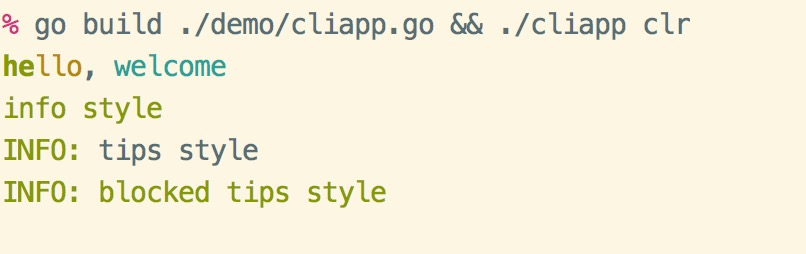
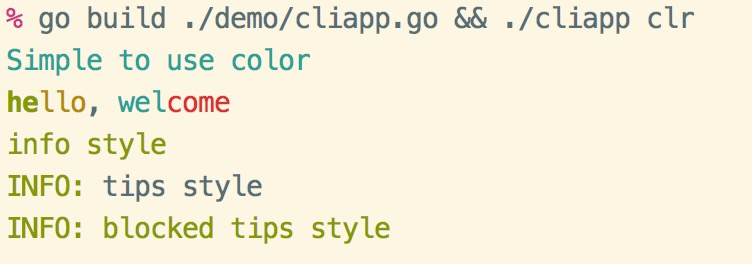
some update for color

Changed region(s): [[0.0, 0.3307, 0.5199, 0.937], [0.0, 0.0276, 0.9176, 0.1654], [0.0, 0.1654, 0.4282, 0.3307]]

diff --git a/color/tag.go b/color/tag.go
@@ -20,86 +20,6 @@ const (
 	StripExpr = `<[\/]?[a-zA-Z=;]*>`
 )
 
-// UseTagColor
-func UseTagColor(name string, str string) string {
-	return buildColoredText(GetStyleCode(name), str)
-}
-
-// Render return rendered string
-func Render(str string) string {
-	return ReplaceTag(str)
-}
-
-// ReplaceTag return rendered string
-func ReplaceTag(str string) string {
-	if !strings.Contains(str, "<") {
-		return str
-	}
-
-	//reg := regexp.MustCompile(TagExpr)
-	reg, err := regexp.Compile(TagExpr)
-
-	if err != nil {
-		return str
-	}
-
-	matches := reg.FindAllStringSubmatch(str, -1)
-	// fmt.Printf("matches %v\n", matches)
-
-	for _, item := range matches {
-		// e.g "<tag>content</>"
-		_, tag, content := item[0], item[1], item[2]
-		code := GetStyleCode(tag)
-
-		if len(code) > 0 {
-			now := buildColoredText(code, content)
-			old := WrapTag(content, tag)
-			str = strings.Replace(str, old, now, 1)
-		}
-		// fmt.Printf("tag: %s, tag content:%s\n", tag, content)
-	}
-
-	return str
-}
-
-// IsDefinedTag is defined tag name
-func IsDefinedTag(name string) bool {
-	if _, ok := TagColors[name]; ok {
-		return true
-	}
-
-	return false
-}
-
-// GetStyleCode get color code by tag name
-func GetStyleCode(name string) string {
-	if code, ok := TagColors[name]; ok {
-		return code
-	}
-
-	return ""
-}
-
-// WrapTag wrap a tag for a string "<tag>content</>"
-func WrapTag(str string, tag string) string {
-	// return fmt.Sprintf("<%s>%s</%s>", tag, str, tag)
-	return fmt.Sprintf("<%s>%s</>", tag, str)
-}
-
-// ClearTag clear all tag for a string
-func ClearTag(str string) string {
-	if !strings.Contains(str, "<") {
-		return str
-	}
-
-	rgp, err := regexp.Compile(StripExpr)
-	if err != nil {
-		return str
-	}
-
-	return rgp.ReplaceAllString(str, "")
-}
-
 // Some defined style tags, in the TagColors.
 const (
 	// basic
@@ -114,7 +34,7 @@ const (
 	TagYellow  = "yellow"
 	TagMagenta = "magenta"
 
-	// alert
+	// alert tag, like bootstrap's alert
 	Suc     = "suc" // same "green" and "bold"
 	Success = "success"
 	Info    = "info"    // same "green"
@@ -123,6 +43,7 @@ const (
 	Notice  = "notice"
 	Warn    = "warn"
 	Warning = "warning"
+	Primary = "primary"
 	Danger  = "danger" // same "red"
 	Err     = "err"
 	Error   = "error"
@@ -137,7 +58,7 @@ const (
 // format is: "fg;bg;opt"
 // usage: <tag>content text</>
 var TagColors = map[string]string{
-	// basic
+	// basic tags
 	"red":     "0;31",
 	"blue":    "0;34",
 	"cyan":    "0;36",
@@ -150,7 +71,7 @@ var TagColors = map[string]string{
 	"yellow":  "1;33",
 	"magenta": "1;35",
 
-	// alert
+	// alert tags, like bootstrap's alert
 	"suc":     "1;32", // same "green" and "bold"
 	"success": "1;32",
 	"info":    "0;32", // same "green",
@@ -159,11 +80,12 @@ var TagColors = map[string]string{
 	"notice":  "36;4",
 	"warn":    "0;30;43",
 	"warning": "0;30;43",
+	"primary": "0;34",
 	"danger":  "0;31", // same "red"
 	"err":     "30;41",
 	"error":   "30;41",
 
-	// more
+	// more tags
 	"lightRed":      "1;31",
 	"light_red":     "1;31",
 	"lightGreen":    "1;32",
@@ -197,4 +119,84 @@ var TagColors = map[string]string{
 	"bold":       "1",
 	"underscore": "4",
 	"reverse":    "7",
+}
+
+// ApplyTag
+func ApplyTag(tag string, str string) string {
+	return buildColoredText(GetStyleCode(tag), str)
+}
+
+// Render return rendered string
+func Render(args ...interface{}) string {
+	return ReplaceTag(fmt.Sprint(args...))
+}
+
+// ReplaceTag replace tag and return rendered string
+func ReplaceTag(str string) string {
+	if !strings.Contains(str, "<") {
+		return str
+	}
+
+	//reg := regexp.MustCompile(TagExpr)
+	reg, err := regexp.Compile(TagExpr)
+
+	if err != nil {
+		return str
+	}
+
+	matches := reg.FindAllStringSubmatch(str, -1)
+	// fmt.Printf("matches %v\n", matches)
+
+	for _, item := range matches {
+		// e.g "<tag>content</>"
+		_, tag, content := item[0], item[1], item[2]
+		code := GetStyleCode(tag)
+
+		if len(code) > 0 {
+			now := buildColoredText(code, content)
+			old := WrapTag(content, tag)
+			str = strings.Replace(str, old, now, 1)
+		}
+		// fmt.Printf("tag: %s, tag content:%s\n", tag, content)
+	}
+
+	return str
+}
+
+// GetStyleCode get color code by tag name
+func GetStyleCode(name string) string {
+	if code, ok := TagColors[name]; ok {
+		return code
+	}
+
+	return ""
+}
+
+// WrapTag wrap a tag for a string "<tag>content</>"
+func WrapTag(str string, tag string) string {
+	// return fmt.Sprintf("<%s>%s</%s>", tag, str, tag)
+	return fmt.Sprintf("<%s>%s</>", tag, str)
+}
+
+// ClearTag clear all tag for a string
+func ClearTag(str string) string {
+	if !strings.Contains(str, "<") {
+		return str
+	}
+
+	rgp, err := regexp.Compile(StripExpr)
+	if err != nil {
+		return str
+	}
+
+	return rgp.ReplaceAllString(str, "")
+}
+
+// IsDefinedTag is defined tag name
+func IsDefinedTag(name string) bool {
+	if _, ok := TagColors[name]; ok {
+		return true
+	}
+
+	return false
 }

diff --git a/color/tag_extra.go b/color/tag_extra.go
@@ -6,35 +6,17 @@ import (
 )
 
 // value is a defined style name
-type tagName string
-
-// Tag more please TagColors
-func Tag(name string) *tagName {
-	if !IsDefinedTag(name) {
-		panic("unknown style name: " + name)
-	}
-
-	tg := tagName(name)
-	return &tg
-}
+type Tag string
 
 // Print
-func (tg tagName) Print(args ...interface{}) {
-	str := buildColoredText(
-		GetStyleCode(string(tg)),
-		fmt.Sprint(args...),
-	)
-
+func (tg Tag) Print(args ...interface{}) {
+	str := buildColoredText(GetStyleCode(string(tg)), args...)
 	fmt.Print(str)
 }
 
 // Println
-func (tg tagName) Println(args ...interface{}) {
-	str := buildColoredText(
-		GetStyleCode(string(tg)),
-		fmt.Sprint(args...),
-	)
-
+func (tg Tag) Println(args ...interface{}) {
+	str := buildColoredText(GetStyleCode(string(tg)), args...)
 	fmt.Println(str)
 }
 
@@ -44,10 +26,7 @@ type Tips string
 // Print
 func (t Tips) Print(args ...interface{}) {
 	tag := string(t)
-	str := buildColoredText(
-		GetStyleCode(tag),
-		strings.ToUpper(tag)+": ",
-	)
+	str := buildColoredText(GetStyleCode(tag), strings.ToUpper(tag), ": ")
 
 	fmt.Print(str, fmt.Sprint(args...))
 }
@@ -55,10 +34,7 @@ func (t Tips) Print(args ...interface{}) {
 // Printf
 func (t Tips) Printf(format string, args ...interface{}) {
 	tag := string(t)
-	str := buildColoredText(
-		GetStyleCode(tag),
-		strings.ToUpper(tag)+": ",
-	)
+	str := buildColoredText(GetStyleCode(tag), strings.ToUpper(tag), ": ")
 
 	fmt.Print(str, fmt.Sprintf(format, args...))
 }
@@ -71,7 +47,7 @@ func (t BlockTips) Print(args ...interface{}) {
 	tag := string(t)
 	str := buildColoredText(
 		GetStyleCode(tag),
-		strings.ToUpper(tag)+": "+fmt.Sprint(args...),
+		strings.ToUpper(tag), ": ", fmt.Sprint(args...),
 	)
 
 	fmt.Print(str)
@@ -82,7 +58,7 @@ func (t BlockTips) Printf(format string, args ...interface{}) {
 	tag := string(t)
 	str := buildColoredText(
 		GetStyleCode(tag),
-		strings.ToUpper(tag)+": "+fmt.Sprintf(format, args...),
+		strings.ToUpper(tag), ": ", fmt.Sprintf(format, args...),
 	)
 
 	fmt.Print(str)

diff --git a/color/color.go b/color/color.go
@@ -120,7 +120,7 @@ func (c Color) Println(args ...interface{}) (int, error) {
 // Printf
 // usage: color.FgCyan.Printf("string %s", "arg0")
 func (c Color) Printf(format string, args ...interface{}) (int, error) {
-	return fmt.Println(c.Renderf(format, args...))
+	return fmt.Print(c.Renderf(format, args...))
 }
 
 // IsValid 检测是否为一个有效的 Color 值
@@ -154,12 +154,14 @@ func buildColorCode(colors ...Color) string {
 }
 
 // buildColoredText
-func buildColoredText(code string, str ...string) string {
+func buildColoredText(code string, args ...interface{}) string {
+	str := fmt.Sprint(args...)
+
 	if len(code) == 0 {
-		return strings.Join(str, "")
+		return str
 	}
 
-	return fmt.Sprintf(FullColorTpl, code, strings.Join(str, ""))
+	return fmt.Sprintf(FullColorTpl, code, str)
 }
 
 // Foreground colors map

diff --git a/demo/cmd/color_usage.go b/demo/cmd/color_usage.go
@@ -39,10 +39,10 @@ func ColorCommand() *cliapp.Command {
 
 func colorUsage(cmd *cliapp.Command, args []string) int {
 	// simple usage
-	color.FgCyan.Printf("string %s", "arg0")
+	color.FgCyan.Printf("Simple to use %s\n", "color")
 
 	// use style tag
-	color.Print("<suc>he</><comment>llo</>, <cyan>welcome</>\n")
+	color.Print("<suc>he</><comment>llo</>, <cyan>wel</><red>come</>\n")
 
 	// set a style tag
 	color.Tag("info").Print("info style\n")

diff --git a/app.go b/app.go
@@ -227,7 +227,7 @@ func (app *Application) Add(c *Command) {
 	// add alias
 	for _, a := range c.Aliases {
 		if cmd, has := aliases[a]; has {
-			panic(color.FgRed.Printf("the alias '%s' has been used by command '%s'", a, cmd))
+			panic(color.FgRed.Renderf("the alias '%s' has been used by command '%s'", a, cmd))
 		}
 
 		aliases[a] = c.Name

diff --git a/color/style.go b/color/style.go
@@ -4,7 +4,7 @@ import (
 	"fmt"
 )
 
-//Style a colored style
+// Style a colored style
 type Style struct {
 	colors []Color // fg color, bg color, color options
 }

diff --git a/README.md b/README.md
@@ -150,8 +150,11 @@ import (
     )
 
 func main() {
-    // use style tag
-	color.Print("<suc>he</><comment>llo</>, <cyan>welcome</>\n")
+	// simple usage
+	color.FgCyan.Printf("Simple to use %s\n", "color")
+
+	// use style tag
+	color.Print("<suc>he</><comment>llo</>, <cyan>wel</><red>come</>\n")
 
 	// set a style tag
 	color.Tag("info").Print("info style\n")
@@ -166,7 +169,7 @@ func main() {
 
 output:
 
-<img src="demo/colored-out.jpg" style="max-width: 350px;"/>
+<img src="demo/colored-out.jpg" style="max-width: 320px;"/>
 
 ## Ref
 
